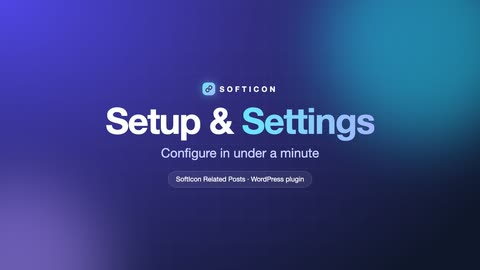
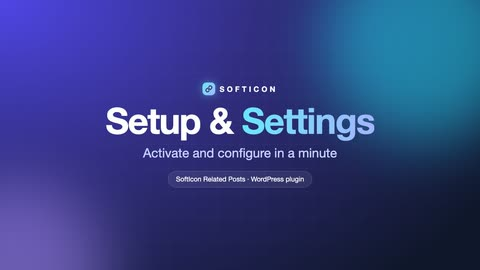
Update the setup video card for the new setup tutorial

Changed region(s): [[0.2812, 0.5333, 0.7188, 0.5926]]

diff --git a/includes/videos.php b/includes/videos.php
@@ -25,7 +25,7 @@ class videos {
     public static function all() {
         $videos = array(
             'overview'   => array( 'thumb' => '00-overview', 'length' => '1:12', 'title' => __('Overview: every feature in a minute', 'softicon-related-posts') ),
-            'setup'      => array( 'thumb' => '01-setup', 'length' => '0:37', 'title' => __('Setup & settings', 'softicon-related-posts') ),
+            'setup'      => array( 'thumb' => '01-setup', 'length' => '0:34', 'title' => __('Setup & settings', 'softicon-related-posts') ),
             'block'      => array( 'thumb' => '02-block', 'length' => '0:28', 'title' => __('The Related Posts block', 'softicon-related-posts') ),
             'design'     => array( 'thumb' => '03-design', 'length' => '0:29', 'title' => __('Layouts & design', 'softicon-related-posts') ),
             'smart'      => array( 'thumb' => '04-smart', 'length' => '0:23', 'title' => __('Most relevant & hand-picked posts', 'softicon-related-posts') ),
